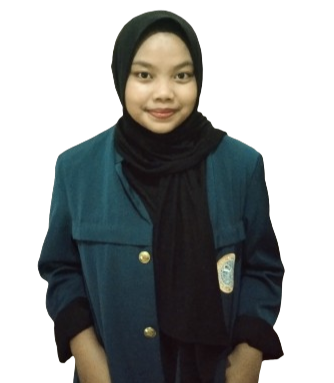
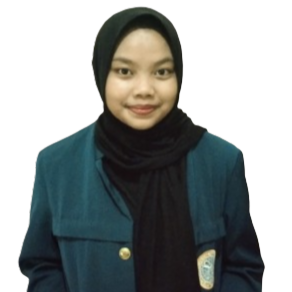
new: halaman sekben; footer 50%;

diff --git a/public/ppp/css/main.css b/public/ppp/css/main.css
@@ -892,7 +892,7 @@ h6 {
 --------------------------------------------------------------*/
 section,
 .section {
-  height: 100vh;
+  /* height: 100vh; */
   color: var(--default-color);
   /* background-color: var(--background-color); */
   /* background-image: url('/ppp/img/background.jpg'); */

diff --git a/resources/views/kementrian/sekben.blade.php b/resources/views/kementrian/sekben.blade.php
@@ -119,19 +119,19 @@
                                 <img src="{{ asset('ppp/img/bg-unair.jpg') }}" class="img-fluid rounded-3" alt="">
                             </div>
 
-                            <hr>
-                            <h3 class="text-center fw-bold">Dirjen SEKBEN</h3>
-                            <hr>
+                            
+                            <h3 class="text-center fw-bold mb-4 mt-5">Dirjen SEKBEN</h3>
+                            
 
-                            <div class="row justify-content-around row-cols-3">
+                            <div class="row justify-content-around">
 
                                 <div class="col">
-                                    <div class="card mt-3">
-                                        <div class="card-body ">
-                                            <div class="d-flex flex-column gap-2 align-items-center">
+                                    <div class="card mt-3 w-100 h-100">
+                                        <div class="card-body pb-0 pt-3">
+                                            <div class="d-flex gap-2 align-items-center">
                                                 <div class="col">
                                                     <img src="{{ asset('ppp/img/kementrian/SEKBEN/Roro_Dinda_Salsabilla Permatasari_Dirjen_Kesekretariatan_.png') }}"
-                                                        class="img-fluid" alt="" style="max-height: 8rem;">
+                                                        class="img-fluid" alt="" >
                                                 </div>
                                                 <div class="col">
                                                     <div class="content">
@@ -145,12 +145,12 @@
                                     </div>
                                 </div>
                                 <div class="col">
-                                    <div class="card mt-3 ">
-                                        <div class="card-body">
-                                            <div class="d-flex flex-column gap-2 align-items-center">
+                                    <div class="card mt-3 w-100 h-100">
+                                        <div class="card-body pb-0 pt-3">
+                                            <div class="d-flex gap-2 align-items-center">
                                                 <div class="col">
-                                                    <img src="{{ asset('ppp/img/kementrian/SEKBEN/shintya_putri_ dirjen kebendaharaan_.png') }}"
-                                                        class="img-fluid" alt="" style="max-height: 8rem;">
+                                                    <img src="{{ asset('ppp/img/kementrian/SEKBEN/shintya_putri__dirjen_kebendaharaan_-removebg-preview.png') }}"
+                                                        class="img-fluid" alt="" >
                                                 </div>
                                                 <div class="col">
                                                     <div class="content">
@@ -166,15 +166,15 @@
                                 
                             </div>
 
-                            <hr>
-                            <h3 class="text-center fw-bold">Staff</h3>
-                            <hr>
+                            
+                            <h3 class="text-center fw-bold mb-4 mt-5">Staff</h3>
+                            
 
                             <div class="row justify-content-around row-cols-2 my-3">
 
                                 <div class="col">
                                     <div class="card mt-3">
-                                        <div class="card-body ">
+                                        <div class="card-body pb-0 pt-3">
                                             <div class="d-flex gap-2 align-items-center">
                                                 <div class="col">
                                                     <img src="{{ asset('ppp/img/kementrian/SEKBEN/Azizatul_Nazwa Salsabilla_Staff Sekre.png') }}"
@@ -191,7 +191,7 @@
                                 </div>
                                 <div class="col">
                                     <div class="card mt-3">
-                                        <div class="card-body ">
+                                        <div class="card-body pb-0 pt-3">
                                             <div class="d-flex gap-2 align-items-center">
                                                 <div class="col">
                                                     <img src="{{ asset('ppp/img/kementrian/SEKBEN/Fiza_Aqila_Staff Bendahara_.png') }}"
@@ -208,7 +208,7 @@
                                 </div>
                                 <div class="col">
                                     <div class="card mt-3">
-                                        <div class="card-body ">
+                                        <div class="card-body pb-0 pt-3">
                                             <div class="d-flex gap-2 align-items-center">
                                                 <div class="col">
                                                     <img src="{{ asset('ppp/img/kementrian/SEKBEN/Nadya_Tikasari Putri_Staff Bendahara.png') }}"
@@ -225,7 +225,7 @@
                                 </div>
                                 <div class="col">
                                     <div class="card mt-3">
-                                        <div class="card-body ">
+                                        <div class="card-body pb-0 pt-3">
                                             <div class="d-flex gap-2 align-items-center">
                                                 <div class="col">
                                                     <img src="{{ asset('ppp/img/kementrian/SEKBEN/Ravena_Ananda_Staff Sekretaris.png') }}"
@@ -242,7 +242,7 @@
                                 </div>
                                 <div class="col">
                                     <div class="card mt-3">
-                                        <div class="card-body ">
+                                        <div class="card-body pb-0 pt-3">
                                             <div class="d-flex gap-2 align-items-center">
                                                 <div class="col">
                                                     <img src="{{ asset('ppp/img/kementrian/SEKBEN/Shivani_Agustina_Staff Bendahara.png') }}"
@@ -259,7 +259,7 @@
                                 </div>
                                 <div class="col">
                                     <div class="card mt-3">
-                                        <div class="card-body ">
+                                        <div class="card-body pb-0 pt-3">
                                             <div class="d-flex gap-2 align-items-center">
                                                 <div class="col">
                                                     <img src="{{ asset('ppp/img/kementrian/SEKBEN/Yuro_Arumandji_staff sekretaris.png') }}"
@@ -276,7 +276,7 @@
                                 </div>
                                 <div class="col">
                                     <div class="card mt-3">
-                                        <div class="card-body ">
+                                        <div class="card-body pb-0 pt-3">
                                             <div class="d-flex gap-2 align-items-center">
                                                 <div class="col">
                                                     <img src="{{ asset('ppp/img/kementrian/SEKBEN/Hilda_Isnaeni__Staff_Sekretaris.png') }}"
@@ -293,10 +293,10 @@
                                 </div>
                                 <div class="col">
                                     <div class="card mt-3">
-                                        <div class="card-body ">
+                                        <div class="card-body pb-0 pt-3">
                                             <div class="d-flex gap-2 align-items-center">
                                                 <div class="col">
-                                                    <img src="{{ asset('ppp/img/kementrian/SEKBEN/Qurrata_A_yunin_Staff_Bendahara.png') }}"
+                                                    <img src="{{ asset('ppp/img/kementrian/SEKBEN/Qurrata_A_yunin_Staff_Bendahara-removebg-preview.png') }}"
                                                         class="img-fluid" alt="" style="max-height: 8rem;">
                                                 </div>
                                                 <div class="col">

diff --git a/resources/views/layout2/footer.blade.php b/resources/views/layout2/footer.blade.php
@@ -1,68 +1,51 @@
 <footer id="footer" class="footer position-relative">
+
     <div class="container footer-top">
-        <div class="row gy-4">
+        <div class="row gy-4 justify-content-center mb-4">
+
             <div class="col-lg-4 col-md-6">
-                <div class="footer-about">
-                    <a href="index.html" class="logo sitename">Day</a>
-                    <div class="footer-contact pt-3">
-                        <p>A108 Adam Street</p>
-                        <p>New York, NY 535022</p>
-                        <p class="mt-3"><strong>Phone:</strong> <span>+1 5589 55488 55</span></p>
-                        <p><strong>Email:</strong> <span>info@example.com</span></p>
-                    </div>
-                    <div class="social-links d-flex mt-4">
-                        <a href=""><i class="bi bi-twitter"></i></a>
-                        <a href=""><i class="bi bi-facebook"></i></a>
-                        <a href=""><i class="bi bi-instagram"></i></a>
-                        <a href=""><i class="bi bi-linkedin"></i></a>
-                    </div>
-                </div>
+                <img src="{{ asset('ppp/img/logo_bem.png') }}" alt="" class="img-fluid w-50">
             </div>
 
-            <div class="col-lg-2 col-md-3 footer-links">
-                <h4>Useful Links</h4>
+            <div class="col-lg-2"></div>
+
+            <div class="col-lg-1 col-md-3 footer-links">
+                <h4>Halaman</h4>
                 <ul>
-                    <li><a href="#">Home</a></li>
-                    <li><a href="#">About us</a></li>
-                    <li><a href="#">Services</a></li>
-                    <li><a href="#">Terms of service</a></li>
-                    <li><a href="#">Privacy policy</a></li>
+                    <li><a href="/" class="{{ request()->is('/') ? 'active' : '' }} ">Home</a></li>
+                    <li><a href="/about" class="{{ request()->is('about') ? 'active' : '' }}">About</a></li>
+                    <li><a href="/kinerja" class="{{ request()->is('kinerja') ? 'active' : '' }}">Kinerja</a></li>
+                    <li><a href="/profile" class="{{ request()->is('profile*') ? 'active' : '' }}">Profile</a></li>
                 </ul>
             </div>
 
-            <div class="col-lg-2 col-md-3 footer-links">
-                <h4>Our Services</h4>
-                <ul>
+            <div class="col-lg-3 col-md-3 footer-links  ">
+                <h4>Kontak</h4>
+                <p>Dharmawangsa Dalam Selatan No.28 – 30, Surabaya Indonesia 60286
+                </p>
+                <p>Telp. : +62 – 031 – 5033869, 031 – 5053156</p>
+                {{-- <ul>
                     <li><a href="#">Web Design</a></li>
                     <li><a href="#">Web Development</a></li>
                     <li><a href="#">Product Management</a></li>
                     <li><a href="#">Marketing</a></li>
                     <li><a href="#">Graphic Design</a></li>
-                </ul>
-            </div>
-
-            <div class="col-lg-4 col-md-12 footer-newsletter">
-                <h4>Our Newsletter</h4>
-                <p>Subscribe to our newsletter and receive the latest news about our products and services!</p>
-                <form action="forms/newsletter.php" method="post" class="php-email-form">
-                    <div class="newsletter-form"><input type="email" name="email"><input type="submit"
-                            value="Subscribe"></div>
-                    <div class="loading">Loading</div>
-                    <div class="error-message"></div>
-                    <div class="sent-message">Your subscription request has been sent. Thank you!</div>
-                </form>
+                </ul> --}}
             </div>
 
         </div>
     </div>
 
-    <div class="container copyright text-center mt-4">
+    <hr>
+
+    <div class="container footer text-center">
         <div class="row justify-content-center">
             <div class="col">
-                <p>© <span>Copyright</span> <strong class="px-1 sitename">Day</strong> <span>All Rights Reserved</span></p>
-            </div>
-            <div class="col">
-                Designed by <a href="/kementrian-media-kreatif">Media Kreatif</a>
+                Designed & Developed by Kementrian <a href="/profile/kementrian-media-kreatif">Media Kreatif dan
+                    Digitalisasi</a>
+                <p>© <span>Copyright</span> <strong class="px-1 sitename">BEM VOKASI UNAIR 2024</strong> <span>All Rights
+                        Reserved</span>
+                </p>
             </div>
         </div>
         <div class="credits">

diff --git a/resources/views/layout2/topbar.blade.php b/resources/views/layout2/topbar.blade.php
@@ -14,8 +14,7 @@
                         <li><a href="/" class="{{ request()->is('/') ? 'active' : '' }} ">Home</a></li>
                         <li><a href="/about" class="{{ request()->is('about') ? 'active' : '' }}">About</a></li>
                         <li><a href="/kinerja" class="{{ request()->is('kinerja') ? 'active' : '' }}">Kinerja</a></li>
-                        <li><a href="/profile" class="{{ request()->is('profile*') ? 'active' : '' }}">Profile</a>
-                        </li>
+                        <li><a href="/profile" class="{{ request()->is('profile*') ? 'active' : '' }}">Profile</a></li>
                         {{-- <li class="dropdown"><a href="profile"><span>Profile</span> <i
                             class="bi bi-chevron-down toggle-dropdown"></i></a>
                             <ul>

diff --git a/resources/views/kementrian/medkraf.blade.php b/resources/views/kementrian/medkraf.blade.php
@@ -116,7 +116,7 @@
                             </div>
 
                             <div class="col-12">
-                                <img src="{{ asset('ppp/img/bg-unair.jpg') }}" class="img-fluid rounded-3" alt="">
+                                <img src="{{ asset('ppp/img/MEDKRAF/medkraf.png') }}" class="img-fluid rounded-3" alt="">
                             </div>
 
                             <hr>

diff --git a/resources/views/profile.blade.php b/resources/views/profile.blade.php
@@ -34,7 +34,7 @@
 
 
     <!-- About Section -->
-    <section id="about" class="about section">
+    <section id="about" class="about">
 
         <!-- Section Title -->
         <div class="container section-title" data-aos="fade-down">
